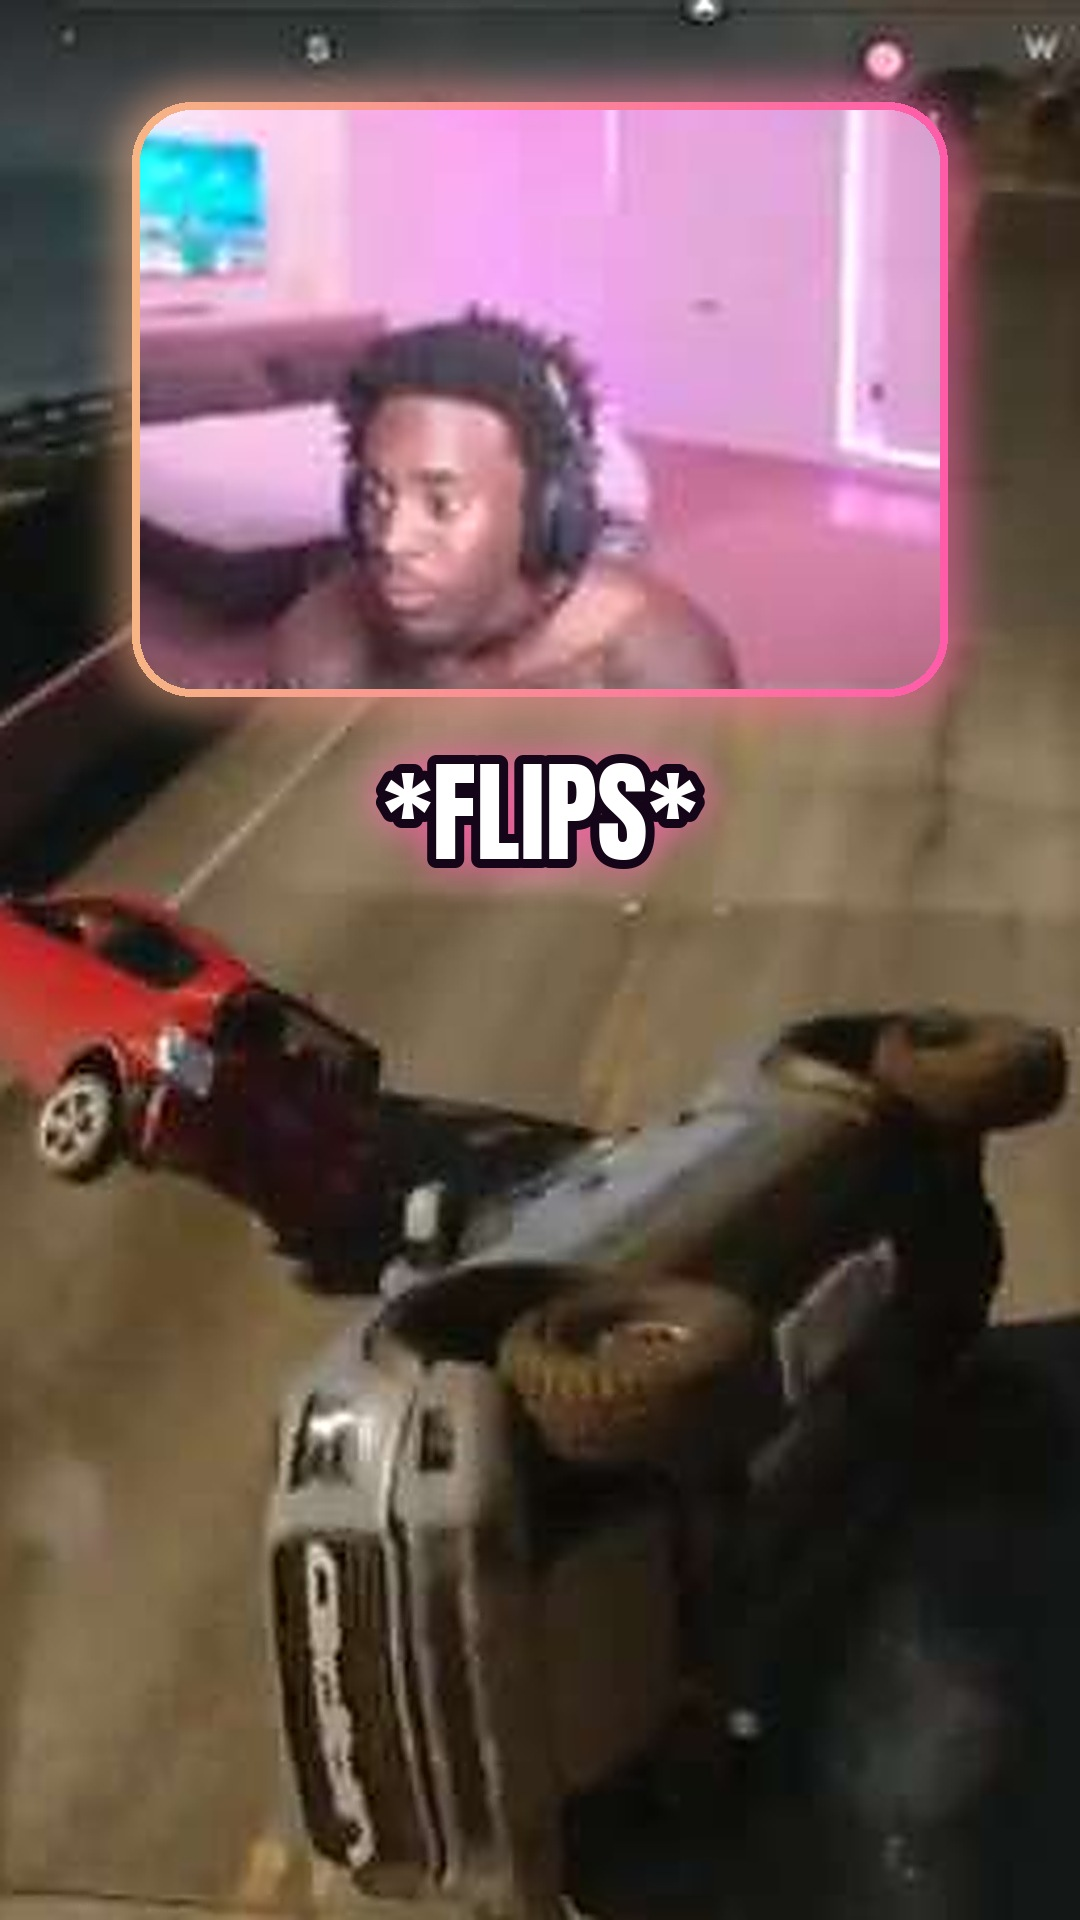
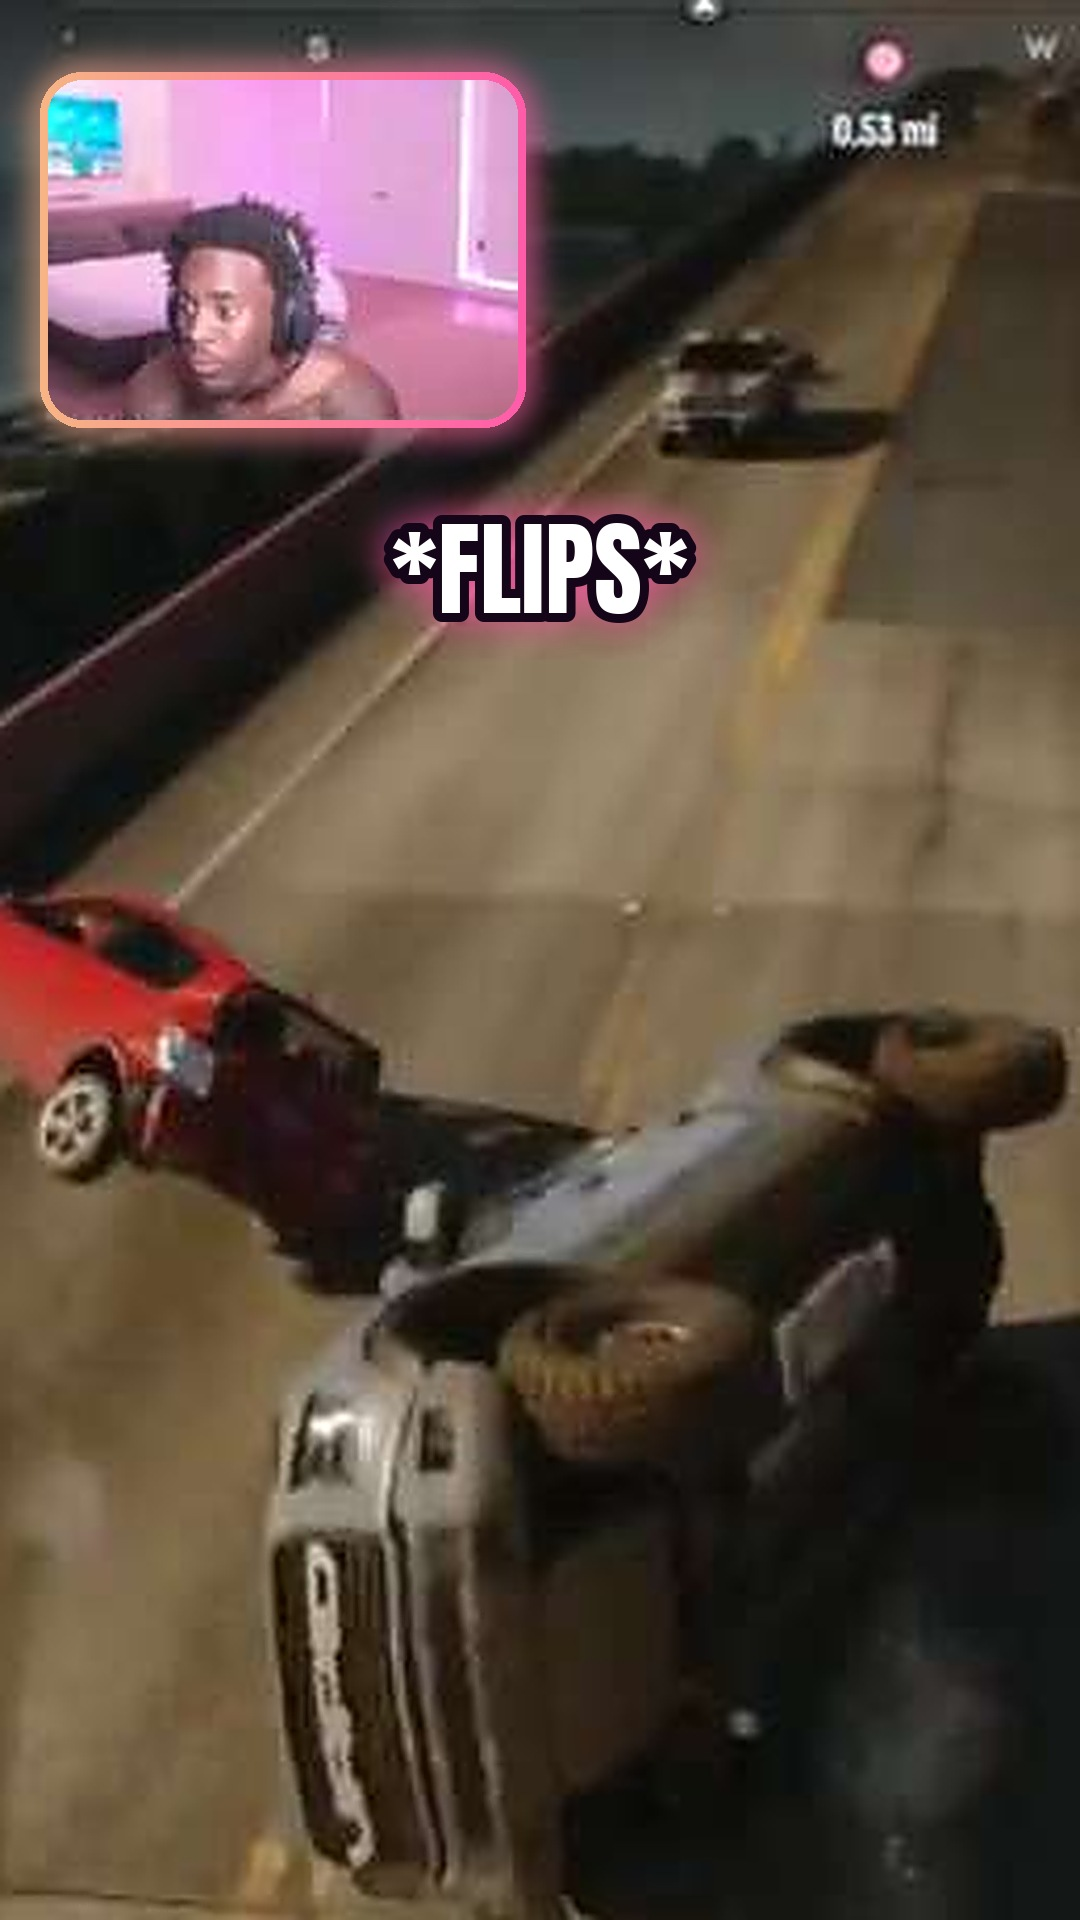
Kai clip: smaller camera card, top-left
Claude-Session: https://claude.ai/code/session_01DX4dbwA3bNBQnMT2RJeEkt

Changed region(s): [[0.0, 0.0, 0.9167, 0.4688]]

diff --git a/production/kai/kai_full.py b/production/kai/kai_full.py
@@ -16,16 +16,16 @@ def frame(i,cx,cap):
     f=Image.open(f'{D}f_{i:04d}.jpg').convert('RGB')
     s=H/(Y1-Y0); sw=round(W/s); x0=max(215,min(905-sw,cx-sw//2))
     out=f.crop((x0,Y0,x0+sw,Y1)).resize((W,H),Image.LANCZOS).filter(SHARP)
-    cw=800; ch=round(cw*(CAM[3]-CAM[1])/(CAM[2]-CAM[0])); cx0=(W-cw)//2; cy0=110; R=52
+    cw=470; ch=round(cw*(CAM[3]-CAM[1])/(CAM[2]-CAM[0])); cx0=48; cy0=80; R=34
     cam=f.crop(CAM).resize((cw,ch),Image.LANCZOS).filter(SHARP)
-    pad=70; gm=Image.new('L',(cw+2*pad,ch+2*pad),0)
-    ImageDraw.Draw(gm).rounded_rectangle((pad-8,pad-8,pad+cw+8,pad+ch+8),radius=R+8,outline=255,width=18)
-    gm=gm.filter(ImageFilter.GaussianBlur(24)).point(lambda v:min(255,int(v*1.7)))
+    pad=50; gm=Image.new('L',(cw+2*pad,ch+2*pad),0)
+    ImageDraw.Draw(gm).rounded_rectangle((pad-8,pad-8,pad+cw+8,pad+ch+8),radius=R+8,outline=255,width=12)
+    gm=gm.filter(ImageFilter.GaussianBlur(16)).point(lambda v:min(255,int(v*1.7)))
     out.paste(hgrad(*gm.size,APRICOT,PINK),(cx0-pad,cy0-pad),gm)                 # glow halo only
     out.paste(hgrad(cw+16,ch+16,APRICOT,PINK),(cx0-8,cy0-8),rmask(cw+16,ch+16,R+8))  # border
     out.paste(cam,(cx0,cy0),rmask(cw,ch,R))
     if cap:
-        d=ImageDraw.Draw(out); fnt=ImageFont.truetype(ANTON,110); tw=d.textlength(cap,font=fnt); ty=cy0+ch+40
+        d=ImageDraw.Draw(out); fnt=ImageFont.truetype(ANTON,104); tw=d.textlength(cap,font=fnt); ty=cy0+ch+70
         m=Image.new('L',(W,H),0); ImageDraw.Draw(m).text(((W-tw)/2,ty),cap,font=fnt,fill=255,stroke_width=12,stroke_fill=255)
         out.paste(Image.new('RGB',(W,H),PINK),(0,0),m.filter(ImageFilter.GaussianBlur(18)).point(lambda v:int(v*0.75)))
         d.text(((W-tw)/2,ty),cap,font=fnt,fill='white',stroke_width=9,stroke_fill=(20,6,24))
